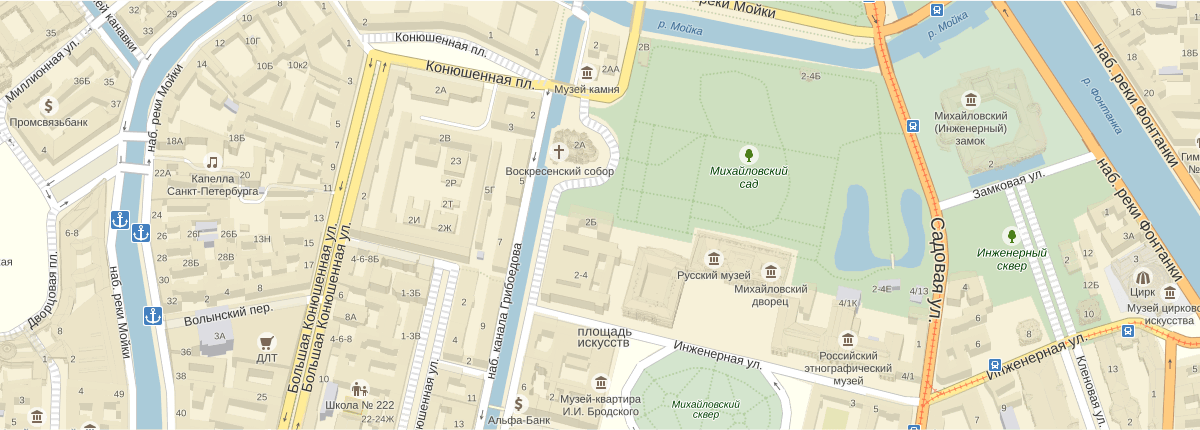
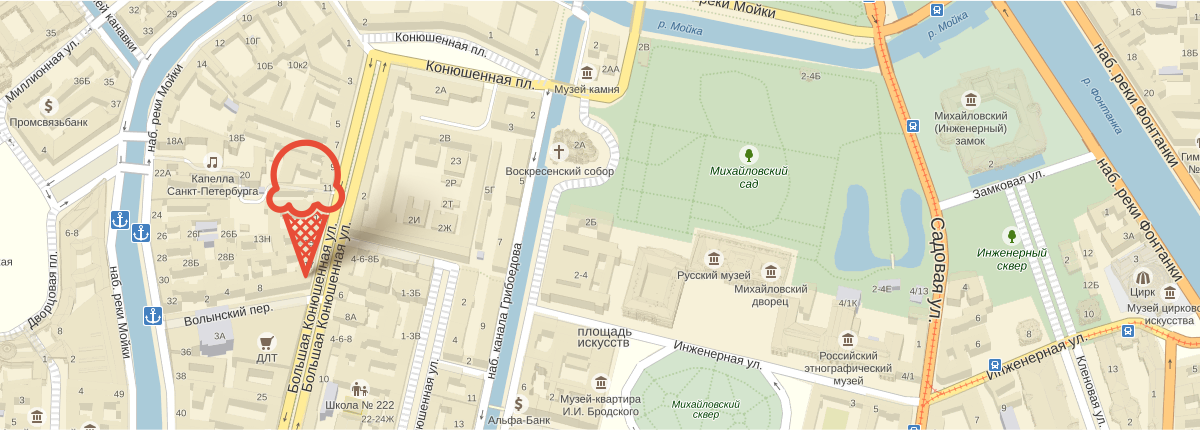
Доп.критерии

diff --git a/css/style--compressed.css b/css/style--compressed.css
@@ -1,0 +1,1 @@
+@font-face{font-family:"Roboto Regular";font-weight:400;font-style:normal;src:url("../fonts/Roboto-Regular.ttf")}@font-face{font-family:"Roboto Medium";font-weight:500;font-style:normal;src:url("../fonts/Roboto-Medium.ttf")}@font-face{font-family:"Roboto Black";font-weight:600;font-style:normal;src:url("../fonts/Roboto-Black.ttf")}@font-face{font-family:"Roboto Bold";font-weight:700;font-style:normal;src:url("../fonts/Roboto-Bold.ttf")}body{color:#ffffff;background-color:#849d8f;font-family:"Roboto Regular","Arial",sans-serif;font-size:16px;font-weight:400;line-height:24px}input[type="radio"],input[name="min-price"],input[name="max-price"],input[type="checkbox"]{position:absolute;opacity:0}.site-wrapper{position:relative;box-sizing:border-box;min-width:900px;-webkit-transition:background-image 0.5s ease,background-color 0.5s ease;transition:background-image 0.5s ease,background-color 0.5s ease;background-repeat:no-repeat;background-position:center top}.site-wrapper.site-wrapper--inner-page{background-image:none}.site-wrapper::before,.site-wrapper::after{visibility:hidden;content:""}.site-wrapper::before,.site-wrapper::after{background-image:url("../img/bg__main-offer--chocolate_ice_cream_and_lemon_sorbet.png")}.site-wrapper::after{background-image:url("../img/bg__main-offer--sundae_with_fudge_and_strawberry_sherbet.png")}.content-wrapper{position:relative;box-sizing:border-box;min-width:900px;max-width:1200px;margin:0 auto}.container{position:relative;margin:0 2.3%}h1{color:#ffffff;font-family:"Roboto Black","Arial",sans-serif;font-size:60px;font-weight:600;line-height:60.35px}img{width:100%;height:auto}.clearfix::after{display:table;clear:both;content:""}.column{display:inline-block;margin-right:2.3%;vertical-align:top;font-size:16px}.column--one-quarter{width:23.27%}.column--two-quarters{width:48.84%}.column--three-quarters{width:74.41%}.column--four-quarters{width:100%}.column--footer{vertical-align:middle}.btn{display:inline-block;box-sizing:border-box;cursor:pointer;vertical-align:top;text-decoration:none;color:#ffffff;border:none;border-radius:20px;background:#f26843;background:-webkit-linear-gradient(top,#f26843 0%,#e74a35 100%);background:linear-gradient(to bottom,#f26843 0%,#e74a35 100%);box-shadow:0 2px 2px rgba(172,16,0,0.64);font-family:"Roboto Bold","Arial",sans-serif;font-size:18px;font-weight:700;line-height:24px}.btn:hover{background:-webkit-linear-gradient(top,#f58669 0%,#ec6f5e 100%);background:linear-gradient(to bottom,#f58669 0%,#ec6f5e 100%);box-shadow:0 2px 2px rgba(172,16,0,1)}.btn:active{background:-webkit-linear-gradient(top,#d84732 0%,#e1613e 100%);background:linear-gradient(to bottom,#d84732 0%,#e1613e 100%);box-shadow:inset 0 2px 2px rgba(172,16,0,1)}.link{text-decoration:none;box-shadow:0 1px 0 0 rgba(255,255,255,0.3)}.link--light{color:#ffffff}.link--dark{color:#000000;box-shadow:0 1px 0 0 rgba(0,0,0,0.3)}.link--light:hover{color:#ffbc9e;box-shadow:0 1px 0 0 rgba(255,188,158,0.3)}.link--dark:hover{color:#e84d37;box-shadow:0 1px 0 0 rgba(232,77,55,0.3)}.form__field{box-sizing:border-box;width:100%;min-height:44px;padding:15px;border:1px solid #d2d2d1;border-radius:5px;font-family:"Roboto Bold","Arial",sans-serif;font-size:16px;font-weight:700;line-height:24px}.form__field:hover{padding:13px;border:3px solid #c6c6c5}.form__field:focus{padding:13px;border:3px solid #a3bdea}.form__item{position:relative}.form__label{position:absolute;top:16px;left:15px;display:none;color:#989898;font-family:"Roboto Regular","Arial",sans-serif;font-size:16px;font-weight:400;line-height:24px}.form__field:focus + .form__label{top:-14px;display:block;color:#a3bdea;font-size:11px;line-height:13px}.form__field::-webkit-input-placeholder{color:#999999;font-family:"Roboto Regular","Arial",sans-serif;font-weight:400}.form__field:-moz-placeholder{color:#999999;font-family:"Roboto Regular","Arial",sans-serif;font-weight:400}header{margin-bottom:5px;padding-top:10px}a{text-decoration:none;color:#ffffff}.logo{float:left;margin-right:16px;margin-left:-5px}.navigation{float:left;max-width:45%}.navigation__list{padding:15px 0;padding-top:13px;padding-bottom:0;list-style:none;font-size:0}.navigation__item{position:relative;z-index:1;display:inline-block;margin-right:1px;padding-bottom:10px;vertical-align:top}.navigation__item:last-child{margin-right:0}.navigation__link{position:relative;display:block;padding-top:6px;padding-right:14px;padding-bottom:8px;padding-left:13px;text-decoration:none;color:#ffffff;font-family:"Roboto Bold","Arial",sans-serif;font-size:16px;font-weight:700;line-height:18px}.navigation__item:hover > .navigation__link{color:#000000}.navigation__link::before{position:absolute;z-index:-1;top:0;left:0;display:none;width:100%;height:100%;content:"";border-radius:20px;background-color:#ffffff}.navigation__item:hover > .navigation__link::before{display:block}.navigation__link::after{position:absolute;right:12px;bottom:8px;left:12px;height:1px;content:"";opacity:0.3;background-color:#ffffff}.navigation__link:hover::after{display:none}.navigation__link:active::before{box-shadow:inset 0 2px 0 0 #696968}.navigation__item--active .navigation__link::before{display:block;background-color:#d07058}.navigation__item--active .navigation__link{cursor:auto;color:#ffffff}.navigation__item--active:hover > .navigation__link{color:#ffffff}.navigation__item--active .navigation__link::after{display:none}.modal-window{position:absolute;z-index:2;display:none;box-sizing:border-box;border-radius:5px;background-color:#ffffff}.modal-window--show{top:50%;left:50%;display:block;-webkit-transform:translate(-50%,-50%);transform:translate(-50%,-50%);-webkit-animation:bounce 0.6s;animation:bounce 0.6s}.modal-window--error{-webkit-animation:shake 0.6s;animation:shake 0.6s}.modal-window--cart{top:37px;right:0;padding:20px 15px;padding-top:30px}.modal-window__table--cart{width:510px;margin-bottom:15px}.modal-window__table td{box-sizing:border-box;padding-bottom:30px;text-align:center;vertical-align:top}.modal-window__cart-item:nth-last-of-type(2) td{padding-bottom:20px}tr.modal-window__cart-item{color:#000000;font-family:"Roboto Regular","Arial",sans-serif;font-size:13px;font-weight:400;line-height:16px}.modal-window__cross-section{width:20px}.modal-window__cross{position:relative;top:-5px;color:#000000;font-family:"Georgia","Times New Roman",serif;font-size:22px;line-height:22px}.modal-window__cart-item-picture{position:relative;width:40px}.modal-window__cart-item-picture img{position:absolute;top:20%;left:57%;-webkit-transform:translate(-50%,-50%);transform:translate(-50%,-50%)}td.modal-window__cart-item-name{width:240px;padding:0 10px;padding-bottom:20px;text-align:left;color:#000000;font-family:"Roboto Regular","Arial",sans-serif;font-size:13px;font-weight:400;line-height:16px}.modal-window__cart-item-calculator{width:120px}.modal-window__cart-item-calculator--price{color:#b1b1b1}td.modal-window__cart-total-cost{padding-top:20px;padding-bottom:0;text-align:right;border-top:1px solid #c9c9c6;font-family:"Roboto Bold","Arial",sans-serif;font-size:15px;font-weight:700;line-height:18px}.btn--cart{padding:10px 15px}.modal-window--contacts{position:fixed;z-index:6;width:475px;padding:20px 24px;padding-right:25px;padding-bottom:27px;color:#000000;font-family:"Roboto Medium","Arial",sans-serif;font-size:24px;font-weight:500;line-height:28px}.modal-window__text--contacts{margin-bottom:20px}.form__field--contacts{display:block;width:265px;margin-bottom:20px}.form__field--message{width:100%}.btn--contacts-modal-window{float:right;padding:10px 24px}.modal-window__cross--contacts{position:absolute;top:16px;right:15px;font-size:40px}.modal-window--navigation{top:40px;left:-5px;width:140px;padding:13px 0;list-style:none}.modal-window__link--navigation{margin-bottom:5px;padding-top:8px;padding-left:20px}.modal-window__link--navigation:hover{background-color:#fbded7}.modal-window__link--navigation:active{background-color:#f6b5a5}.modal-window__link--active{background-color:#d07058}.modal-window__link--navigation a{color:#000000;font-family:"Roboto Regular","Arial",sans-serif;font-size:14px;font-weight:400;line-height:16px}.modal-window__link--active a{color:#ffffff}.modal-window__link--active:hover{background-color:#d07058}.modal-window__title--navigation{margin:0 7px;margin-bottom:5px;padding-bottom:10px;padding-left:13px;color:#000000;border-bottom:1px solid rgba(0,0,0,0.2);font-family:"Roboto Bold","Arial",sans-serif;font-size:14px;font-weight:700;line-height:16px}.modal-window__link:last-of-type{margin-bottom:0}.navigation__item:hover > .modal-window--navigation,.modal-window:hover{display:block}.user-block{float:right;max-width:35%;margin-top:13px;text-align:right;font-size:0}.user-block__item{position:relative;display:inline-block;margin-right:10px;padding-bottom:5px;list-style:none;vertical-align:top}.user-block__btn{display:inline-block;box-sizing:border-box;text-align:left;vertical-align:middle;text-decoration:none;color:#ffffff;background-color:rgba(255,255,255,0.2);font-family:"Roboto Medium","Arial",sans-serif;font-size:14px;font-weight:500;line-height:16px}.user-block__item:nth-of-type(3n){margin-right:0}.user-block__btn--search{width:32px;height:32px;border-radius:50%;background-image:url("../img/icon__search--loupe.svg");background-repeat:no-repeat;background-position:center;font-size:0}.user-block__item:hover > .user-block__btn--search{background-color:#ffffff;background-image:url("../img/icon__search--loupe-black.svg")}.modal-window--search{top:37px;right:0;width:340px;padding:20px 15px}.user-block__item:hover > .modal-window{display:block}.form__item--login{margin-bottom:20px}.user-block__btn--login{min-width:92px;min-height:32px;padding:5px 14px;padding-left:16px;border-radius:20px}.user-block__btn--login::before{display:inline-block;width:20px;height:20px;margin-right:7px;content:"";vertical-align:middle;background-image:url("../img/icon__user--login.svg");background-repeat:no-repeat;background-position:center}.user-block__item:hover > .user-block__btn--login{color:#353535;background-color:#ffffff}.user-block__item:hover > .user-block__btn--login::before{background-image:url("../img/icon__user--login-black.svg")}.modal-window--login{top:37px;right:0;width:280px;padding:20px;text-align:left}.modal-window__links{display:inline-block;box-sizing:border-box;vertical-align:top}.modal-window__link--login{display:block;text-decoration:underline;color:#000000;font-family:"Roboto Regular","Arial",sans-serif;font-size:13px;line-height:24px}.btn--login{margin-right:20px;padding:10px 25px}.user-block__btn--cart{min-width:116px;min-height:32px;padding:6px 15px;border-radius:20px}.user-block__btn--cart::before{display:inline-block;width:22px;height:20px;margin-right:7px;content:"";vertical-align:middle;background-image:url("../img/icon__cart--white.svg");background-repeat:no-repeat;background-position:center;background-size:22px 20px}.user-block__item:hover > .user-block__btn--cart{color:#000000;background-color:#ffffff}.user-block__item:hover > .user-block__btn--cart::before{background-image:url("../img/icon__cart--black.svg")}.user-block__btn--full-cart::before{background-image:url("../img/icon__cart--white.svg"),url("../img/icon__cart--full.svg");background-repeat:no-repeat,no-repeat;background-position:center,5px 4px;background-size:22px 20px,16px 11px}.user-block__item:hover > .user-block__btn--full-cart::before{background-image:url("../img/icon__cart--black.svg"),url("../img/icon__cart--full.svg");background-repeat:no-repeat,no-repeat;background-position:center,5px 4px;background-size:22px 20px,16px 11px}.worktime-phone-block{position:absolute;z-index:1;right:0;bottom:-40px;text-align:right}.worktime-phone-block__worktime{margin-bottom:5px;color:#ffffff;font-family:"Roboto Bold","Arial",sans-serif;font-size:14px;font-weight:700;line-height:16px}.worktime-phone-block__phone a{text-decoration:none;color:#ffffff;font-family:"Roboto Black","Arial",sans-serif;font-size:22px;font-weight:600;line-height:24px}.main-offer{position:relative;text-align:center}.main-offer__title{width:700px;margin:0 auto;margin-bottom:30px;color:#ffffff;font-family:"Roboto Black","Arial",sans-serif;font-size:60px;font-weight:600;line-height:60px}.btn--main-offer{margin:0 auto;margin-bottom:41px;padding:10px 40px;border-radius:100px;text-shadow:0 2px 5px rgba(160,32,11,0.76);font-family:"Roboto Bold","Arial",sans-serif;font-size:32px;font-weight:700;line-height:44px}.slider{position:relative;padding-top:307px;text-align:center;color:#ffffff}.slider__btn{display:inline-block;width:17px;height:17px;margin-right:8px;cursor:pointer;vertical-align:top;border:2px solid #ffffff;border-radius:50%;background-color:transparent}.slider__btn:hover{background-color:#b6c0b7}.slider__controls{position:absolute;bottom:60px;left:0;font-size:0}.slider__slide{display:none}#slider-btn-1:checked ~ .site-wrapper #slide1,#slider-btn-2:checked ~ .site-wrapper #slide2,#slider-btn-3:checked ~ .site-wrapper #slide3{display:block}#slider-btn-1:checked ~ .site-wrapper label[for="slider-btn-1"],#slider-btn-2:checked ~ .site-wrapper label[for="slider-btn-2"],#slider-btn-3:checked ~ .site-wrapper label[for="slider-btn-3"]{background-color:#ffffff}#slider-btn-1:checked ~ .site-wrapper{background-color:#849d8f;background-image:url("../img/bg__main-offer--creme_brulee_and_ice_cream_with_raspberry_jam.png")}#slider-btn-2:checked ~ .site-wrapper{background-color:#8996a6;background-image:url("../img/bg__main-offer--chocolate_ice_cream_and_lemon_sorbet.png")}#slider-btn-3:checked ~ .site-wrapper{background-color:#9d8b84;background-image:url("../img/bg__main-offer--sundae_with_fudge_and_strawberry_sherbet.png")}.content-row{font-size:0}.content{box-sizing:border-box;margin-bottom:40px;padding-top:15px;padding-right:20px;padding-bottom:23px;padding-left:19px;border-radius:15px}.content--offer{background-size:100% 100%}.content--raspberry{background-color:#b3001d;background-image:url("../img/bg__content--raspberry.png")}.content--chocolate{background-color:#6c3e24;background-image:url("../img/bg__content--chocolate.png")}.content__title--offer{margin-bottom:16px;font-family:"Roboto Bold","Arial",sans-serif;font-size:35px;font-weight:700;line-height:41px}.content__text--offer{min-height:80px;margin-bottom:8px;font-family:"Roboto Bold","Arial",sans-serif;font-size:18px;font-weight:700;line-height:22px}.btn--offer{float:right;padding:11px 22px;border-radius:25px}.content:last-of-type{margin-right:0}.products{font-size:0}.product{margin-bottom:38px;font-family:"Roboto Medium","Arial",sans-serif;font-size:16px;font-weight:500;line-height:22px}.product:last-of-type{margin-bottom:105px}.product--hit:last-of-type{margin-bottom:38px}.product:hover{position:relative;z-index:1}.product:hover .link{text-decoration:none}.product:hover::before{position:absolute;top:-10px;right:-10px;bottom:-80px;left:-10px;content:"";background-color:rgba(255,255,255,0.5)}.product:hover .link--product::after{position:absolute;right:0;bottom:-64px;left:0;display:inline-block;box-sizing:border-box;padding:10px;content:"Быстрый просмотр";text-align:center;vertical-align:top;text-decoration:none;color:#ffffff;border-radius:20px;background:#f26843;background:-webkit-linear-gradient(top,#f26843 0%,#e74a35 100%);background:linear-gradient(to bottom,#f26843 0%,#e74a35 100%);box-shadow:0 2px 2px rgba(172,16,0,0.64);font-family:"Roboto Bold","Arial",sans-serif;font-size:19px;font-weight:700;line-height:24px}.product:hover .link--product:hover::after{background:-webkit-linear-gradient(top,#f58669 0%,#ec6f5e 100%);background:linear-gradient(to bottom,#f58669 0%,#ec6f5e 100%);box-shadow:0 2px 2px rgba(172,16,0,1)}.product:hover .link--product:active::after{background:-webkit-linear-gradient(top,#d84732 0%,#e1613e 100%);background:linear-gradient(to bottom,#d84732 0%,#e1613e 100%);box-shadow:inset 0 2px 2px rgba(172,16,0,1)}.product:hover .link--product{color:#ffffff;box-shadow:none}.product:nth-of-type(4n+1){margin-left:0}.product:nth-of-type(4n){margin-right:0}.product__image{position:relative;margin-bottom:5px}.product__image--hit::before{position:absolute;top:0;left:0;width:61px;height:61px;content:"";background-image:url("../img/sticker__product--hit.png");background-size:cover}.product__price{position:absolute;bottom:15px;left:0;font-family:"Roboto Bold","Arial",sans-serif;font-size:45px;font-weight:700;line-height:45px}.product__price span{font-size:30px}.product__title{padding:1px 6px;text-align:center}.content--about{padding-top:24px;padding-right:15px;padding-bottom:2px;padding-left:19px;border-radius:15px;background-color:#ede1ca;background-image:url("../img/pattern__about--waffle.png");font-size:0}.content__title--about{margin-bottom:22px;color:#323232;font-family:"Roboto Medium","Arial",sans-serif;font-size:24px;font-weight:500;line-height:30px}.content__text--about{position:relative;display:inline-block;box-sizing:border-box;width:48.9%;margin-bottom:22px;padding-left:55px;vertical-align:top;color:#323232;font-size:16px;line-height:22px}.content__text--about::before{position:absolute;top:-12px;left:2px;display:block;width:47px;height:47px;content:"";background-size:cover}.content__text:nth-of-type(1)::before{background-image:url("../img/icon__about--ice-cream.svg")}.content__text:nth-of-type(2)::before{background-image:url("../img/icon__about--cow.svg")}.content__text:nth-of-type(3)::before{background-image:url("../img/icon__about--leaf.svg")}.content__text:nth-of-type(4)::before{background-image:url("../img/icon__about--thermometer.svg")}.content__text--about:nth-of-type(odd){margin-right:2.2%}.content--news{padding-top:23px;padding-bottom:80px;padding-left:19px;background-color:#ffffff;background-image:url("../img/bg__content--strawberry.png");background-size:100% 100%}.content__title--news{margin-bottom:4px;color:#323232;font-family:"Roboto Medium","Arial",sans-serif;font-size:16px;font-weight:500;line-height:22px}.content__text--news{width:300px;color:#323232;font-family:"Roboto Bold","Arial",sans-serif;font-size:24px;font-weight:700;line-height:30px}.link--news{background-color:rgba(255,255,255,0.7)}.link--news:active{box-shadow:-15px 15px 0 -14px rgba(202,78,59,0.5)}.content--subscription{box-sizing:border-box;padding:5px;border-radius:15px;background-color:transparent;background-image:url("../img/pattern__subscription--red-blue-lines.png"),-webkit-linear-gradient(#f8f7f4,#f8f7f4);background-image:url("../img/pattern__subscription--red-blue-lines.png"),linear-gradient(#f8f7f4,#f8f7f4)}.content__text--subscription{min-height:87px;padding-top:29px;padding-right:20px;padding-bottom:15px;padding-left:22px;color:#5a5a5a;border-radius:10px 10px 0 0;background-color:#f8f7f4;line-height:22px}.form--subscription{position:relative;padding-right:160px;padding-bottom:35px;padding-left:20px;border-radius:0 0 10px 10px;background-color:#f8f7f4}.form__field--subscription{margin-right:10px;padding:8px 13px;vertical-align:top}.form__field--subscription:hover{padding:6px 11px}.form__field--subscription:focus{padding:6px 11px}.form__label--subscription{top:10px}.btn--subscription{position:absolute;right:20px;bottom:34px;padding:10px 18px;border-radius:25px;font-size:18px}.map{position:relative;min-height:430px}.map--outer{background-color:transparent;background-image:url("../img/bg__map--offline-shop.png");background-repeat:no-repeat;background-position:center;background-size:1200px 430px}.contacts{position:absolute;top:61px;right:2.3%;bottom:63px;overflow:hidden;box-sizing:border-box;width:300px;padding-top:29px;padding-right:25px;padding-bottom:30px;padding-left:24px;color:#323232;border-radius:13px;background-color:#ffffff}.contacts__text{width:200px;font-size:14px;font-weight:400px;line-height:20px}.contacts__text--address{margin-bottom:1px}.contacts__text--phone{margin-bottom:4px}.contacts__address{margin-bottom:18px;font-family:"Roboto Bold","Arial",sans-serif;font-size:18px;font-weight:700;line-height:24px}.contacts__phone a{color:#323232;font-family:"Roboto Bold","Arial",sans-serif;font-size:18px;font-weight:700;line-height:24px}.contacts__text--worktime{margin-bottom:23px;line-height:22px}.btn--contacts{width:100%;padding:10px 0;padding-left:9px;text-align:center;border-radius:25px;font-size:18px}.container--footer{padding-top:21px;padding-bottom:20px;font-size:0}.container--footer-on-inner-page{border-top:2px solid rgba(255,255,255,0.3)}.social__list{padding-top:5px;font-size:0}.social__item{display:inline-block;margin-right:9px;list-style:none;vertical-align:top}.social__item:nth-of-type(4n){margin-right:0}.social__btn{display:block;box-sizing:border-box;width:40px;height:40px;opacity:0.8;border:3px solid rgba(255,255,255,0.5);border-radius:50%;background-color:rgba(255,255,255,0.2);background-repeat:no-repeat;background-position:center;background-size:cover}.social__btn:hover{opacity:1;border:3px solid rgba(255,255,255,0.7)}.social__btn:active{box-shadow:inset 0 2px 0 0 #979897}.social__btn--tw{background-image:url("../img/icon__social--tw.svg")}.social__btn--inst{background-image:url("../img/icon__social--inst.svg")}.social__btn--fb{background-image:url("../img/icon__social--fb.svg")}.social__btn--vk{background-image:url("../img/icon__social--vk.svg")}.footer-menu__list{width:345px;margin:0 auto;padding-top:11px;font-size:0}.footer-menu__item{display:inline-block;box-sizing:border-box;padding-left:22px;list-style:none;vertical-align:top;font-size:13px;line-height:18px}.footer-menu__item:nth-of-type(odd){width:140px}.footer-menu__item--like{position:relative;font-family:"Roboto Bold","Arial",sans-serif;font-weight:700}.footer-menu__item--like::before{position:absolute;top:3px;left:0;width:15px;height:13px;content:"";background-image:url("../img/icon__footer-menu--heart.svg");background-repeat:no-repeat;background-size:cover}.copyright{margin-right:0;text-align:right}.copyright__logo{display:inline-block;width:180px;height:37px;margin-top:-4px;margin-right:10px;margin-bottom:5px;text-align:left;vertical-align:top}.copyright__logo img{width:108px;height:37px;margin-left:3px}.copyright__text{font-size:12px;line-height:18px}.breadcrumbs{margin-top:19px;margin-bottom:-4px;font-size:0}.breadcrumbs__item{position:relative;display:inline-block;list-style:none;vertical-align:top;font-size:14px;line-height:16px}.link--breadcrumbs{margin-right:4px}.breadcrumbs__item span{margin-right:7px}.breadcrumbs__item:last-child::after{display:none}.page-title{margin-bottom:26px;font-family:"Roboto Bold","Arial",sans-serif;font-size:35px;font-weight:700;line-height:41px}.filter{margin-bottom:21px}.filter__form{font-size:0}.filter__item{display:inline-block;margin-right:15px;margin-bottom:17px;vertical-align:top;font-size:16px}.filter__item:nth-of-type(3n){margin-right:0}.filter__item:last-child{margin-right:0}.filter__item-name{margin-bottom:6px;margin-left:16px;font-family:"Roboto Medium","Arial",sans-serif;font-size:14px;font-weight:500;line-height:16px}.filter__fieldset{position:relative;box-sizing:border-box;padding:9px 15px;border-radius:25px;background-color:#aabab0;font-family:"Roboto Medium","Arial",sans-serif;font-size:16px;font-weight:500;line-height:18px}.filter__field{position:relative;margin-right:12px;padding-left:33px}.filter__field--species{margin-right:16px}.filter__field:last-child{margin-right:0}.filter__field--sort{min-width:152px;color:#ffffff;border:none;background-color:transparent;font-family:"Roboto Medium","Arial",sans-serif;font-size:16px;font-weight:500;line-height:18px}.filter__field--sort::after{position:absolute;top:7px;right:-1px;width:8px;height:5px;content:"";background-image:url("../img/icon__filter--arrow-down.svg");background-repeat:no-repeat;background-size:cover}.filter__fieldset--sort{padding-top:6px;padding-right:7px;padding-bottom:8px;padding-left:9px}.filter__fieldset--sort:hover{cursor:pointer;background-color:#ffffff}.filter__fieldset--sort:hover .filter__field{color:#000000}.filter__fieldset--sort:hover .filter__field::after{background-image:url("../img/icon__filter--arrow-down-black.svg")}.filter__field--sort{padding-right:10px;padding-left:0;cursor:pointer}.range-filter{position:relative;box-sizing:border-box;width:218px;min-height:35px;padding:16px 17px;border-radius:25px;background-color:#aabab0}.range-filter__controls{position:absolute;top:50%;min-width:188px;height:100%;-webkit-transform:translateY(-50%);transform:translateY(-50%)}.range-filter__scale{position:absolute;top:50%;min-width:188px;height:5px;-webkit-transform:translateY(-50%);transform:translateY(-50%);background-color:rgba(255,255,255,0.5)}.range-filter__toggle{position:absolute;top:50%;width:20px;height:20px;cursor:pointer;-webkit-transform:translateY(-50%);transform:translateY(-50%);border-radius:50%;background-color:#ffffff}.range-filter__toggle--min-toggle{left:19px}.range-filter__toggle--max-toggle{left:117px}.range-filter__bar{position:absolute;right:60px;left:31px;height:5px;background-color:#ffffff}.range-filter__toggle:hover{-webkit-transform:translateY(-50%) scale(1.1);transform:translateY(-50%) scale(1.1)}.filter__field--fat::before{position:absolute;top:50%;left:3px;box-sizing:border-box;width:20px;height:20px;content:"";-webkit-transform:translateY(-50%);transform:translateY(-50%);border:2px solid #ffffff;border-radius:50%}input[name="fat"]:checked + .filter__field--fat::after{position:absolute;top:50%;left:8px;width:10px;height:10px;content:"";-webkit-transform:translateY(-50%);transform:translateY(-50%);border-radius:50%;background-color:#ffffff}.filter__field.disabled{opacity:0.4}.filter__field.disabled:hover::before{border:2px solid #ffffff}.filter__field--species::before{position:absolute;top:50%;left:0;box-sizing:border-box;width:20px;height:20px;content:"";-webkit-transform:translateY(-50%);transform:translateY(-50%);border:2px solid #ffffff;border-radius:2px}input[type="checkbox"]:checked + .filter__field--species::after{position:absolute;top:50%;left:0;width:20px;height:20px;content:"";-webkit-transform:translateY(-50%);transform:translateY(-50%);background-image:url("../img/icon__filter--checkbox-checked.svg");background-repeat:no-repeat;background-size:cover}.filter__field--fat:hover::before,.filter__field--species:hover::before{border:3px solid #ffffff}.filter__btn{display:inline-block;margin-top:21px;padding:8px 28px;padding-top:7px;cursor:pointer;text-align:center;vertical-align:top;color:#ffffff;border:2px solid #ffffff;border-radius:25px;background-color:#a1afa4;font-family:"Roboto Medium","Arial",sans-serif;font-size:16px;font-weight:500;line-height:18px}.filter__btn:hover{color:#000000;border-color:#ffffff;background-color:#ffffff}.filter__btn:active{padding:10px 30px;padding-bottom:9px;border:none;background-color:#e9e9e9;box-shadow:inset 0 2px 0 0 #6c6d6b}.paginator{padding-bottom:25px;text-align:right;font-size:0}.paginator__item{position:relative;z-index:0;display:inline-block;margin-right:20px;list-style:none;vertical-align:top}.paginator__item a{font-family:"Roboto Medium","Arial",sans-serif;font-size:16px;font-weight:500;line-height:18px}.paginator__item--active a{color:#000000}.paginator__item--active a::before{position:absolute;z-index:-1;top:-4px;left:-8px;width:25px;height:25px;content:"";border-radius:50%;background-color:#ffffff}.paginator__item a:hover::before{position:absolute;z-index:-1;top:-4px;left:-8px;width:25px;height:25px;content:"";border-radius:50%;background-color:rgba(255,255,255,0.2)}.paginator__item--prev a:hover::before,.paginator__item--next a:hover::before{display:none}.paginator__item--disable{opacity:0.2}.paginator__item--prev{top:-2px;margin-right:24px}.paginator__item--next{top:-2px;margin-left:3px}.paginator__item--prev a{display:block;width:9px;height:18px;background-image:url("../img/icon__paginator--prev.svg");background-repeat:no-repeat;background-position:bottom center;background-size:9px 14px;font-size:0}.paginator__item--next a{display:block;width:9px;height:18px;-webkit-transform:rotate(180deg);transform:rotate(180deg);background-image:url("../img/icon__paginator--prev.svg");background-repeat:no-repeat;background-position:top center;background-size:9px 14px;font-size:0}.paginator__item:last-child{margin-right:0}.overlay{position:absolute;z-index:5;top:0;left:0;display:none;width:100%;height:100%;background-color:rgba(0,0,0,0.2)}.overlay--show{display:block}@-webkit-keyframes bounce{0%{-webkit-transform:translate(-50%,-50%) scale(0) rotate(0);transform:translate(-50%,-50%) scale(0) rotate(0)}100%{-webkit-transform:translate(-50%,-50%) scale(1) rotate(360deg);transform:translate(-50%,-50%) scale(1) rotate(360deg)}}@keyframes bounce{0%{-webkit-transform:translate(-50%,-50%) scale(0) rotate(0);transform:translate(-50%,-50%) scale(0) rotate(0)}100%{-webkit-transform:translate(-50%,-50%) scale(1) rotate(360deg);transform:translate(-50%,-50%) scale(1) rotate(360deg)}}@-webkit-keyframes shake{0%,100%{-webkit-transform:translate(-50%,-50%);transform:translate(-50%,-50%)}10%,30%,50%,70%,90%{-webkit-transform:translate(-55%,-50%);transform:translate(-55%,-50%)}20%,40%,60%,80%{-webkit-transform:translate(-45%,-50%);transform:translate(-45%,-50%)}}@keyframes shake{0%,100%{-webkit-transform:translate(-50%,-50%);transform:translate(-50%,-50%)}10%,30%,50%,70%,90%{-webkit-transform:translate(-55%,-50%);transform:translate(-55%,-50%)}20%,40%,60%,80%{-webkit-transform:translate(-45%,-50%);transform:translate(-45%,-50%)}}

diff --git a/index.html b/index.html
@@ -3,8 +3,8 @@
   <head>
     <meta charset="UTF-8">
     <title>Gllacy Shop</title>
-    <link rel="stylesheet" href="css/normalize.css">
-    <link rel="stylesheet" href="css/style.css">
+    <link rel="stylesheet" href="css/normalize--compressed.css">
+    <link rel="stylesheet" href="css/style--compressed.css">
   </head>
   <body>
     <input type="radio" id="slider-btn-1" name="slider" checked>
@@ -66,11 +66,11 @@
                 <div class="modal-window modal-window--login">
                   <form class="form form--login" action="#" method="GET">
                     <div class="form__item form__item--login">
-                      <input class="form__field form__field--login-email" id="login-email" type="email" placeholder="Электронная почта">
+                      <input class="form__field form__field--login-email" id="login-email" type="email" placeholder="Электронная почта" required>
                       <label class="form__label form__label--login-email" for="login-email">Электронная почта</label>
                     </div>
                     <div class="form__item form__item--login">
-                      <input class="form__field form__field--login-password" id="login-password" type="password" placeholder="Пароль">
+                      <input class="form__field form__field--login-password" id="login-password" type="password" placeholder="Пароль" required>
                       <label class="form__label form__label--login-password" for="login-password">Пароль</label>
                     </div>
                     <input class="btn btn--login" id="btn-login" type="submit" value="Войти">
@@ -191,7 +191,7 @@
                   Обещаем не спамить и не слать всякой не нужной ерунды. Честно =)</p>
                 <form action="#" class="form form--subscription">
                   <div class="form__item form__item--subscription">
-                    <input class="form__field form__field--subscription" id="email-field" type="email" name="e-mail" placeholder="Электронная почта">
+                    <input class="form__field form__field--subscription" id="email-field" type="email" name="e-mail" placeholder="Электронная почта" required>
                     <label class="form__label form__label--subscription" for="email-field">Электронная почта</label>
                   </div>
                   <input class="btn btn--subscription" id="subscription-btn" type="submit" value="Отправить">
@@ -200,7 +200,8 @@
             </section>
           </div>
 
-          <section class="map clearfix">
+          <section class="map map--outer">
+            <div class="map map--inner" id="map"></div>
             <article class="contacts">
               <p class="contacts__text contacts__text--address">Адрес главного офиса и офлайн магазина:</p>
               <p class="contacts__address">ул. Большая Конюшенная 19/8, Санкт-Петербург</p>
@@ -214,19 +215,19 @@
           </section>
 
           <div class="modal-window modal-window--contacts">
-            <form class="form form--contacts">
+            <form class="form form--contacts" action="#" method="POST">
               <a class="modal-window__cross modal-window__cross--contacts" href="#">&times;</a>
               <p class="modal-window__text modal-window__text--contacts">Мы обязательно вам ответим!</p>
               <div class="form__item form__item--contacts form__item--name">
-                <input class="form__field form__field--contacts form__field--name" id="contacts-name" type="text" placeholder="Как вас зовут?">
+                <input class="form__field form__field--contacts form__field--name" id="contacts-name" type="text" name="name" placeholder="Как вас зовут?" required>
                 <label class="form__label form__label--contacts form__label--name" for="contacts-name">Как вас зовут?</label>
               </div>
               <div class="form__item form__item--contacts form__item--email">
-                <input class="form__field form__field--contacts form__field--email" id="contacts-email" type="email" placeholder="Ваша почта для ответа?">
+                <input class="form__field form__field--contacts form__field--email" id="contacts-email" type="email" name="e-mail" placeholder="Ваша почта для ответа?" required>
                 <label class="form__label form__label--contacts form__label--email" for="contacts-email">Ваша почта для ответа?</label>
               </div>
               <div class="form__item form__item--contacts form__item--message">
-                <textarea class="form__field form__field--contacts form__field--message" id="contacts-message" rows="7" placeholder="Напишите что-нибудь..."></textarea>
+                <textarea class="form__field form__field--contacts form__field--message" id="contacts-message" rows="7" name="message" placeholder="Напишите что-нибудь..." required></textarea>
                 <label class="form__label form__label--contacts form__label--message" for="contacts-message">Напишите что-нибудь...</label>
               </div>
               <input class="btn btn--contacts-modal-window" id="btn-contacts" type="submit" value="Отправить">
@@ -281,6 +282,8 @@
       </div>
       <div class="overlay"></div>
     </div>
-    <script src="js/script.js"></script>
+    <script async defer
+        src="https://maps.googleapis.com/maps/api/js?key=AIzaSyDazS8Q-9SsKGNe5WBZ2H1IqsNR-wwDYwM&signed_in=true&callback=initMap"></script>
+    <script src="js/script--compressed.js"></script>
   </body>
 </html>

diff --git a/css/style.css b/css/style.css
@@ -436,6 +436,13 @@ a {
 
   -webkit-transform: translate(-50%, -50%);
           transform: translate(-50%, -50%);
+  -webkit-animation: bounce 0.6s;
+          animation: bounce 0.6s;
+}
+
+.modal-window--error {
+  -webkit-animation: shake 0.6s;
+          animation: shake 0.6s;
 }
 
 .modal-window--cart {
@@ -1006,10 +1013,12 @@ td.modal-window__cart-total-cost {
 }
 
 .content--raspberry {
+  background-color: #b3001d;
   background-image: url("../img/bg__content--raspberry.png");
 }
 
 .content--chocolate {
+  background-color: #6c3e24;
   background-image: url("../img/bg__content--chocolate.png");
 }
 
@@ -1188,6 +1197,7 @@ td.modal-window__cart-total-cost {
   padding-left: 19px;
 
   border-radius: 15px;
+  background-color: #ede1ca;
   background-image: url("../img/pattern__about--waffle.png");
 
   font-size: 0;
@@ -1262,6 +1272,7 @@ td.modal-window__cart-total-cost {
   padding-bottom: 80px;
   padding-left: 19px;
 
+  background-color: #ffffff;
   background-image: url("../img/bg__content--strawberry.png");
   background-size: 100% 100%;
 }
@@ -1301,6 +1312,7 @@ td.modal-window__cart-total-cost {
   padding: 5px;
 
   border-radius: 15px;
+  background-color: transparent;
   background-image: url("../img/pattern__subscription--red-blue-lines.png"),
   -webkit-linear-gradient(#f8f7f4, #f8f7f4);
   background-image: url("../img/pattern__subscription--red-blue-lines.png"),
@@ -1367,25 +1379,14 @@ td.modal-window__cart-total-cost {
   position: relative;
 
   min-height: 430px;
+}
 
+.map--outer {
+  background-color: transparent;
   background-image: url("../img/bg__map--offline-shop.png");
   background-repeat: no-repeat;
   background-position: center;
   background-size: 1200px 430px;
-}
-
-.map::before {
-  position: absolute;
-  top: 135px;
-  left: 265px;
-
-  width: 218px;
-  height: 142px;
-
-  content: "";
-
-  background-image: url("../img/icon__map--ice-cream.png");
-  background-size: cover;
 }
 
 .contacts {
@@ -1501,6 +1502,7 @@ td.modal-window__cart-total-cost {
   opacity: 0.8;
   border: 3px solid rgba(255, 255, 255, 0.5);
   border-radius: 50%;
+  background-color: rgba(255, 255, 255, 0.2);
   background-repeat: no-repeat;
   background-position: center;
   background-size: cover;
@@ -2098,4 +2100,72 @@ input[type="checkbox"]:checked + .filter__field--species::after {
 
 .overlay--show {
   display: block;
+}
+
+@-webkit-keyframes bounce {
+  0% {
+    -webkit-transform: translate(-50%, -50%) scale(0) rotate(0);
+            transform: translate(-50%, -50%) scale(0) rotate(0);
+  }
+  100% {
+    -webkit-transform: translate(-50%, -50%) scale(1) rotate(360deg);
+            transform: translate(-50%, -50%) scale(1) rotate(360deg);
+  }
+}
+
+@keyframes bounce {
+  0% {
+    -webkit-transform: translate(-50%, -50%) scale(0) rotate(0);
+            transform: translate(-50%, -50%) scale(0) rotate(0);
+  }
+  100% {
+    -webkit-transform: translate(-50%, -50%) scale(1) rotate(360deg);
+            transform: translate(-50%, -50%) scale(1) rotate(360deg);
+  }
+}
+
+@-webkit-keyframes shake {
+  0%,
+  100% {
+    -webkit-transform: translate(-50%, -50%);
+            transform: translate(-50%, -50%);
+  }
+  10%,
+  30%,
+  50%,
+  70%,
+  90% {
+    -webkit-transform: translate(-55%, -50%);
+            transform: translate(-55%, -50%);
+  }
+  20%,
+  40%,
+  60%,
+  80% {
+    -webkit-transform: translate(-45%, -50%);
+            transform: translate(-45%, -50%);
+  }
+}
+
+@keyframes shake {
+  0%,
+  100% {
+    -webkit-transform: translate(-50%, -50%);
+            transform: translate(-50%, -50%);
+  }
+  10%,
+  30%,
+  50%,
+  70%,
+  90% {
+    -webkit-transform: translate(-55%, -50%);
+            transform: translate(-55%, -50%);
+  }
+  20%,
+  40%,
+  60%,
+  80% {
+    -webkit-transform: translate(-45%, -50%);
+            transform: translate(-45%, -50%);
+  }
 }

diff --git a/js/script.js b/js/script.js
@@ -5,6 +5,12 @@ var btnContacts = document.querySelector("a.btn.btn--contacts");
 var contactsModalWindow = document.querySelector(".modal-window.modal-window--contacts");
 var overlay = document.querySelector(".overlay");
 var crossContacts = document.querySelector(".modal-window__cross.modal-window__cross--contacts");
+var nameField = contactsModalWindow.querySelector("[name=\"name\"]");
+var emailField = contactsModalWindow.querySelector("[name=\"e-mail\"]");
+var messageField = contactsModalWindow.querySelector("[name=\"message\"]");
+var formContacts = contactsModalWindow.querySelector("form");
+var storedName = localStorage.getItem("nameField");
+var storedEmail = localStorage.getItem("emailField");
 
 for (var i = 0; i < fields.length; ++i) {
   fields[i].addEventListener("focus", function () {
@@ -26,24 +32,66 @@ btnContacts.addEventListener("click", function(event) {
   event.preventDefault();
   contactsModalWindow.classList.add("modal-window--show");
   overlay.classList.add("overlay--show");
+  if (storedName) {
+    nameField.value = storedName;
+    emailField.focus();
+  }
+
+  if (storedEmail) {
+    emailField.value = storedEmail;
+    messageField.focus();
+  }
 });
 
 crossContacts.addEventListener("click", function(event) {
   event.preventDefault();
   contactsModalWindow.classList.remove("modal-window--show");
   overlay.classList.remove("overlay--show");
+  contactsModalWindow.classList.remove("modal-window--error");
 });
 
 overlay.addEventListener("click", function(event) {
   contactsModalWindow.classList.remove("modal-window--show");
   overlay.classList.remove("overlay--show");
+  contactsModalWindow.classList.remove("modal-window--error");
 });
 
 window.addEventListener("keydown", function(event) {
   if (event.keyCode === 27) {
     if (contactsModalWindow.classList.contains("modal-window--show")) {
-      contactsModalWindow.classList.remove("modal-window--show");
       overlay.classList.remove("overlay--show");
+      contactsModalWindow.classList.remove("modal-window--show");
+      contactsModalWindow.classList.remove("modal-window--error");
     }
   }
 });
+
+nameField.required = false;
+emailField.required = false;
+messageField.required = false;
+
+formContacts.addEventListener("submit", function(event) {
+  if (!nameField.value || !emailField.value || !messageField.value) {
+    event.preventDefault();
+    contactsModalWindow.classList.remove("modal-window--error");
+    contactsModalWindow.offsetWidth = contactsModalWindow.offsetWidth;
+    contactsModalWindow.classList.add("modal-window--error");
+  } else {
+    localStorage.setItem("nameField", nameField.value);
+    localStorage.setItem("emailField", emailField.value);
+  }
+});
+
+function initMap() {
+  var map = new google.maps.Map(document.getElementById("map"), {
+    zoom: 16,
+    center: {lat: 59.9386034, lng: 30.3293023}
+  });
+
+  var image = "img/icon__map--ice-cream.svg";
+  var beachMarker = new google.maps.Marker({
+    position: {lat: 59.938767, lng: 30.323100},
+    map: map,
+    icon: image
+  });
+}

diff --git a/js/script--compressed.js b/js/script--compressed.js
@@ -1,0 +1,1 @@
+function initMap(){var e=new google.maps.Map(document.getElementById("map"),{zoom:16,center:{lat:59.9386034,lng:30.3293023}}),o="img/icon__map--ice-cream.svg";new google.maps.Marker({position:{lat:59.938767,lng:30.3231},map:e,icon:o})}for(var disabledElements=document.querySelectorAll(".disabled"),fields=document.querySelectorAll(".form__field"),placeholder="",btnContacts=document.querySelector("a.btn.btn--contacts"),contactsModalWindow=document.querySelector(".modal-window.modal-window--contacts"),overlay=document.querySelector(".overlay"),crossContacts=document.querySelector(".modal-window__cross.modal-window__cross--contacts"),nameField=contactsModalWindow.querySelector('[name="name"]'),emailField=contactsModalWindow.querySelector('[name="e-mail"]'),messageField=contactsModalWindow.querySelector('[name="message"]'),formContacts=contactsModalWindow.querySelector("form"),storedName=localStorage.getItem("nameField"),storedEmail=localStorage.getItem("emailField"),i=0;i<fields.length;++i)fields[i].addEventListener("focus",function(){placeholder=this.getAttribute("placeholder"),this.setAttribute("placeholder","")}),fields[i].addEventListener("blur",function(){this.setAttribute("placeholder",placeholder)});for(var i=0;i<disabledElements.length;++i)disabledElements[i].addEventListener("click",function(e){e.preventDefault()});btnContacts.addEventListener("click",function(e){e.preventDefault(),contactsModalWindow.classList.add("modal-window--show"),overlay.classList.add("overlay--show"),storedName&&(nameField.value=storedName,emailField.focus()),storedEmail&&(emailField.value=storedEmail,messageField.focus())}),crossContacts.addEventListener("click",function(e){e.preventDefault(),contactsModalWindow.classList.remove("modal-window--show"),overlay.classList.remove("overlay--show"),contactsModalWindow.classList.remove("modal-window--error")}),overlay.addEventListener("click",function(e){contactsModalWindow.classList.remove("modal-window--show"),overlay.classList.remove("overlay--show"),contactsModalWindow.classList.remove("modal-window--error")}),window.addEventListener("keydown",function(e){27===e.keyCode&&contactsModalWindow.classList.contains("modal-window--show")&&(overlay.classList.remove("overlay--show"),contactsModalWindow.classList.remove("modal-window--show"),contactsModalWindow.classList.remove("modal-window--error"))}),nameField.required=!1,emailField.required=!1,messageField.required=!1,formContacts.addEventListener("submit",function(e){nameField.value&&emailField.value&&messageField.value?(localStorage.setItem("nameField",nameField.value),localStorage.setItem("emailField",emailField.value)):(e.preventDefault(),contactsModalWindow.classList.remove("modal-window--error"),contactsModalWindow.offsetWidth=contactsModalWindow.offsetWidth,contactsModalWindow.classList.add("modal-window--error"))});

diff --git a/catalog.html b/catalog.html
@@ -3,8 +3,8 @@
   <head>
     <meta charset="UTF-8">
     <title>Gllacy Shop</title>
-    <link rel="stylesheet" href="css/normalize.css">
-    <link rel="stylesheet" href="css/style.css">
+    <link rel="stylesheet" href="css/normalize--compressed.css">
+    <link rel="stylesheet" href="css/style--compressed.css">
   </head>
   <body>
     <div class="site-wrapper site-wrapper--inner-page">
@@ -65,11 +65,11 @@
                 <div class="modal-window modal-window--login">
                   <form class="form form--login" action="#" method="GET">
                     <div class="form__item form__item--login">
-                      <input class="form__field form__field--login-email" id="login-email" type="email" placeholder="Электронная почта">
+                      <input class="form__field form__field--login-email" id="login-email" type="email" placeholder="Электронная почта" required>
                       <label class="form__label form__label--login-email" for="login-email">Электронная почта</label>
                     </div>
                     <div class="form__item form__item--login">
-                      <input class="form__field form__field--login-password" id="login-password" type="password" placeholder="Пароль">
+                      <input class="form__field form__field--login-password" id="login-password" type="password" placeholder="Пароль" required>
                       <label class="form__label form__label--login-password" for="login-password">Пароль</label>
                     </div>
                     <input class="btn btn--login" id="btn-login" type="submit" value="Войти">
@@ -393,6 +393,6 @@
         </footer>
       </div>
     </div>
-    <script src="js/script.js"></script>
+    <script src="js/script--compressed.js"></script>
   </body>
 </html>

diff --git a/css/normalize--compressed.css b/css/normalize--compressed.css
@@ -1,0 +1,1 @@
+* {padding:0;margin:0}
